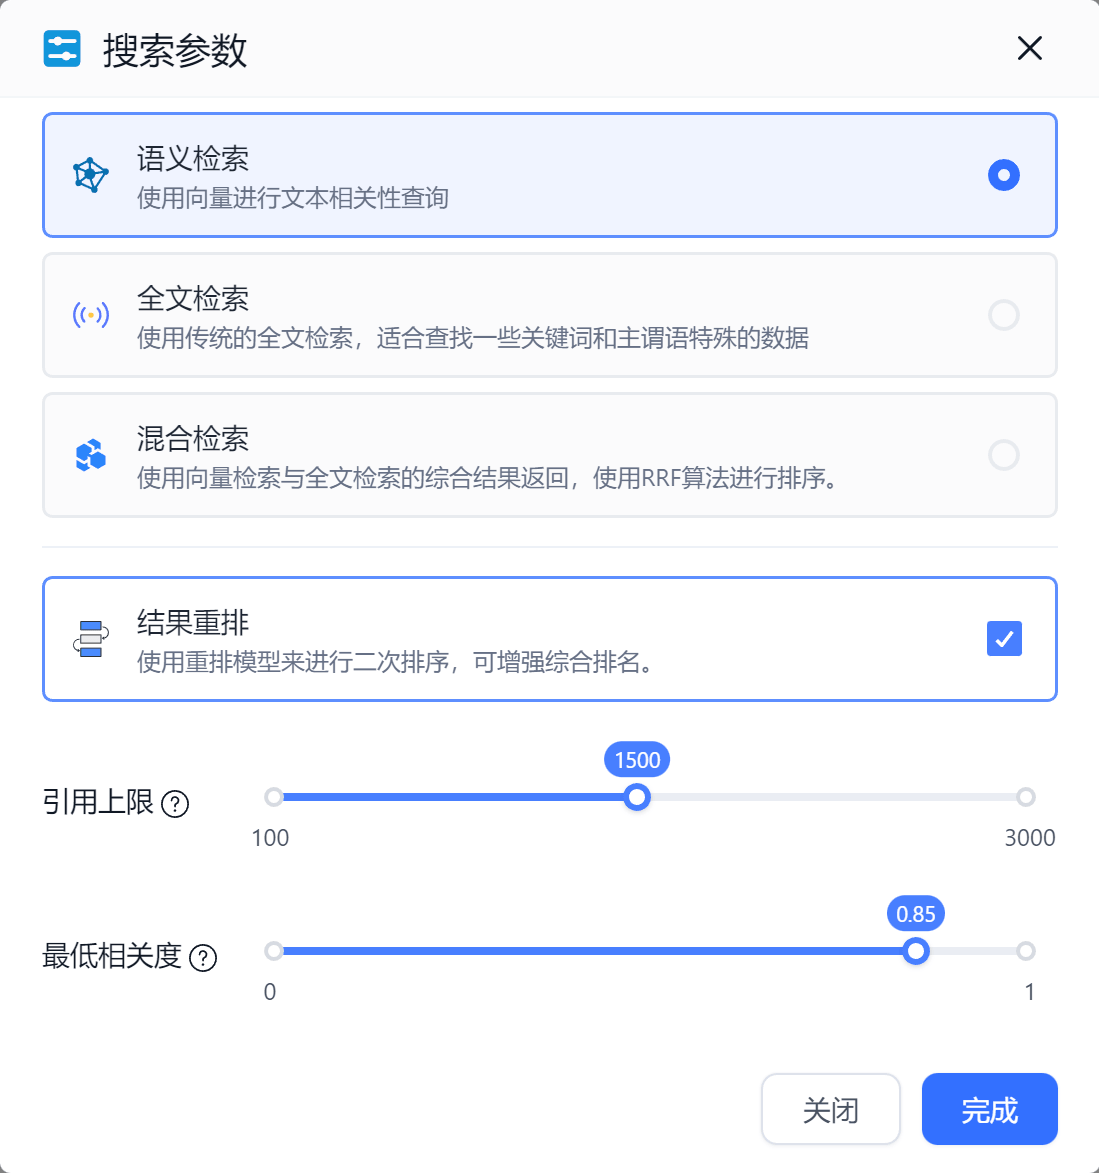
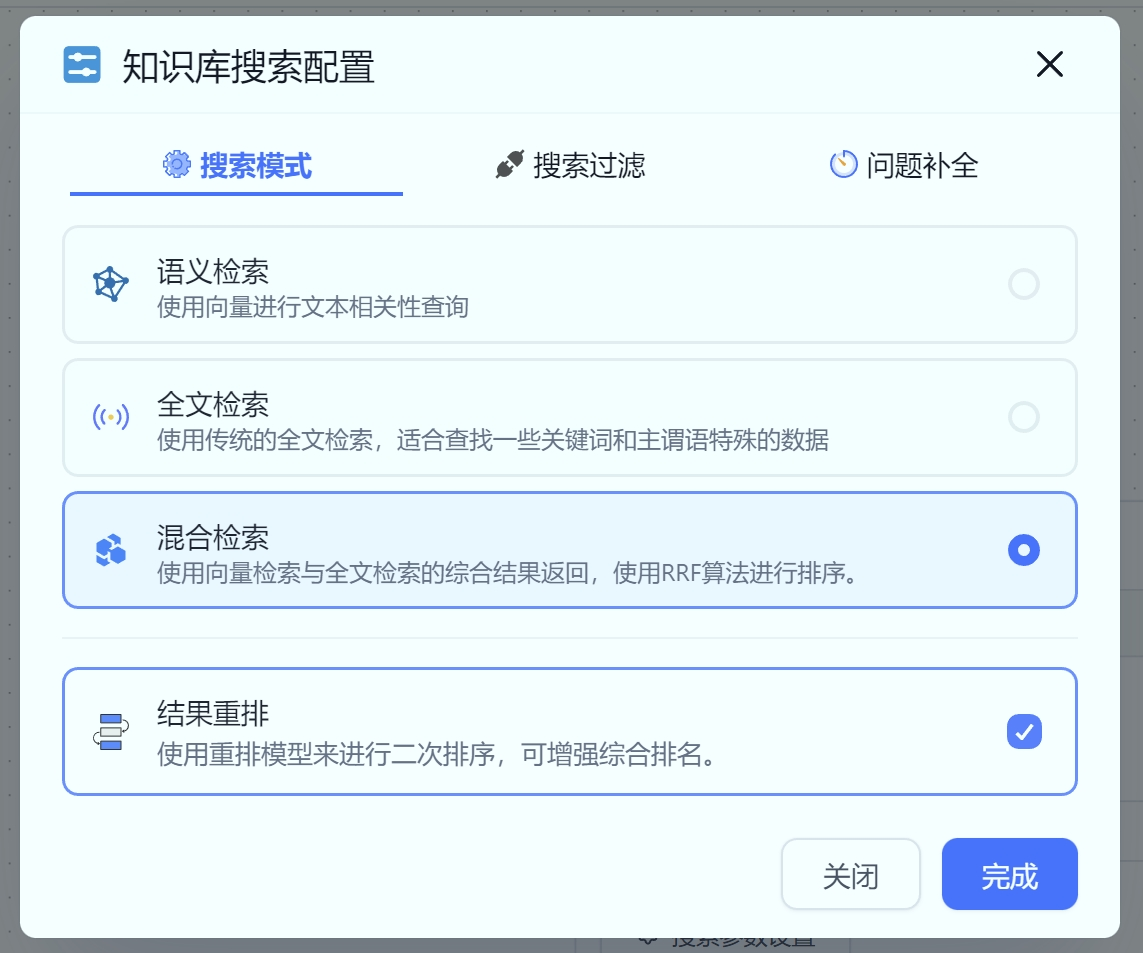
468 doc

Changed region(s): [[0.0, 0.0, 1.0, 1.0], [0.8662, 0.426, 0.8972, 0.4565]]

diff --git a/packages/global/core/module/template/system/coreferenceResolution.ts b/packages/global/core/module/template/system/coreferenceResolution.ts
@@ -19,11 +19,11 @@ import { Output_Template_UserChatInput } from '../output';
 
 export const AiCFR: FlowModuleTemplateType = {
   id: FlowNodeTypeEnum.chatNode,
-  templateType: ModuleTemplateTypeEnum.tools,
+  templateType: ModuleTemplateTypeEnum.other,
   flowType: FlowNodeTypeEnum.cfr,
   avatar: '/imgs/module/cfr.svg',
   name: 'core.module.template.Query extension',
-  intro: 'core.module.template.Query extension intro',
+  intro: '该模块已合并到知识库搜索参数中，无需单独使用。',
   showStatus: true,
   inputs: [
     Input_Template_Switch,

diff --git a/projects/app/src/web/core/modules/template/system.ts b/projects/app/src/web/core/modules/template/system.ts
@@ -29,8 +29,7 @@ export const appSystemModuleTemplates: FlowModuleTemplateType[] = [
   RunAppModule,
   ClassifyQuestionModule,
   ContextExtractModule,
-  HttpModule,
-  AiCFR
+  HttpModule
 ];
 export const pluginSystemModuleTemplates: FlowModuleTemplateType[] = [
   PluginInputModule,
@@ -42,8 +41,7 @@ export const pluginSystemModuleTemplates: FlowModuleTemplateType[] = [
   RunAppModule,
   ClassifyQuestionModule,
   ContextExtractModule,
-  HttpModule,
-  AiCFR
+  HttpModule
 ];
 
 export const moduleTemplatesFlat: FlowModuleTemplateType[] = [

diff --git a/docSite/content/docs/course/data_search.md b/docSite/content/docs/course/data_search.md
@@ -1,19 +1,77 @@
 ---
-title: '知识库搜索参数'
-description: '知识库搜索原理'
+title: '知识库搜索介绍'
+description: '本节会详细介绍 FastGPT 知识库结构设计，理解其 QA 的存储格式和多向量映射，以便更好的构建知识库。同时会介绍每个搜索参数的功能。这篇介绍主要以使用为主，详细原理不多介绍。'
 icon: 'language'
 draft: false
 toc: true
 weight: 106
 ---
 
-在知识库搜索的方式上，FastGPT提供了三种方式，分别为“语义检索”“增强语义检索”“混合检索”。
+## 理解向量
 
-![](/imgs/dataset_search_params1.png)
+FastGPT 采用了 RAG 中的 Embedding 方案构建知识库，要使用好 FastGPT 需要简单的理解`Embedding`向量是如何工作的及其特点。
 
-## 搜索模式
+人类的文字、图片、视频等媒介是无法直接被计算机理解的，要想让计算机理解两段文字是否有相似性、相关性，通常需要将它们转成计算机可以理解的语言，向量是其中的一种方式。
 
-### 语义检索
+向量可以简单理解为一个数字数组，两个向量之间可以通过数学公式得出一个`距离`，距离越小代表两个向量的相似度越大。从而映射到文字、图片、视频等媒介上，可以用来判断两个媒介之间的相似度。向量搜索便是利用了这个原理。
+
+而由于文字是有多种类型，并且拥有成千上万种组合方式，因此在转成向量进行相似度匹配时，很难保障其精确性。在向量方案构建的知识库中，通常使用`topk`召回的方式，也就是查找前`k`个最相似的内容，丢给大模型去做更进一步的`语义判断`、`逻辑推理`和`归纳总结`，从而实现知识库问答。因此，在知识库问答中，向量搜索的环节是最为重要的。
+
+影响向量搜索精度的因素非常多，主要包括：向量模型的质量、数据的质量（长度，完整性，多样性）、检索器的精度（速度与精度之间的取舍）。与数据质量对应的就是检索词的质量。
+
+检索器的精度比较容易解决，向量模型的训练略复杂，因此数据和检索词质量优化成了一个重要的环节。
+
+
+### 提高向量搜索精度的方法
+
+1. 更好分词分段：当一段话的结构和语义是完整的，并且是单一的，精度也会提高。因此，许多系统都会优化分词器，尽可能的保障每组数据的完整性。
+2. 精简`index`的内容，减少向量内容的长度：当`index`的内容更少，更准确时，检索精度自然会提高。但与此同时，会牺牲一定的检索范围，适合答案较为严格的场景。
+3. 丰富`index`的数量，可以为同一个`chunk`内容增加多组`index`。
+4. 优化检索词：在实际使用过程中，用户的问题通常是模糊的或是缺失的，并不一定是完整清晰的问题。因此优化用户的问题（检索词）很大程度上也可以提高精度。
+5. 微调向量模型：由于市面上直接使用的向量模型都是通用型模型，在特定领域的检索精度并不高，因此微调向量模型可以很大程度上提高专业领域的检索效果。
+
+## FastGPT 构建知识库方案
+
+### 数据存储结构
+
+在 FastGPT 中，整个知识库由库、集合和数据 3 部分组成。集合可以简单理解为一个`文件`。一个`库`中可以包含多个`集合`，一个`集合`中可以包含多组`数据`。最小的搜索单位是`库`，也就是说，知识库搜索时，是对整个`库`进行搜索，而集合仅是为了对数据进行分类管理，与搜索效果无关。（起码目前还是）
+
+![](/imgs/dataset_tree.png)
+
+### 向量存储结构
+
+FastGPT 采用了`PostgresSQL`的`PG Vector`插件作为向量检索器，索引为`HNSW`。且`PostgresSQL`仅用于向量检索（该引擎可以替换成其它数据库），`MongoDB`用于其他数据的存取。
+
+在`MongoDB`的`dataset.datas`表中，会存储向量原数据的信息，同时有一个`indexes`字段，会记录其对应的向量ID，这是一个数组，也就是说，一组向量可以对应多组数据。
+
+在`PostgresSQL`的表中，设置一个`vector`字段用于存储向量。在检索时，会先召回向量，再根据向量的ID，去`MongoDB`中寻找原数据内容，如果对应了同一组原数据，则进行合并，向量得分取最高得分。
+
+![](/imgs/datasetSetting1.png)
+
+### 多向量的目的和使用方式
+
+在一组向量中，内容的长度和语义的丰富度通常是矛盾的，无法兼得。因此，FastGPT 采用了多向量映射的方式，将一组数据映射到多组向量中，从而保障数据的完整性和语义的丰富度。
+
+你可以为一组较长的文本，添加多组向量，从而在检索时，只要其中一组向量被检索到，该数据也将被召回。
+
+### 检索方案
+
+1. 通过`问题补全`实现指代消除和问题扩展，从而增加连续对话的检索能力以及语义丰富度。
+2. 通过`Concat query`来增加`Rerank`连续对话的时，排序的准确性。
+3. 通过`RRF`合并方式，综合多个渠道的检索效果。
+4. 通过`Rerank`来二次排序，提高精度。
+
+![](/imgs/dataset_search_process.png)
+
+
+## 搜索参数
+| | | |
+| --- |---| --- |
+|![](/imgs/dataset_search_params1.png)| ![](/imgs/dataset_search_params2.png) | ![](/imgs/dataset_search_params3.png) |
+
+### 搜索模式
+
+#### 语义检索
 
 语义检索是通过向量距离，计算用户问题与知识库内容的距离，从而得出“相似度”，当然这并不是语文上的相似度，而是数学上的。
 
@@ -27,32 +85,49 @@ weight: 106
 - 精度不稳定
 - 受关键词和句子完整度影响
 
-### 全文检索
+#### 全文检索
 
 采用传统的全文检索方式。适合查找关键的主谓语等。
 
-### 混合检索
+#### 混合检索
 
 同时使用向量检索和全文检索，并通过 RRF 公式进行两个搜索结果合并，一般情况下搜索结果会更加丰富准确。
 
 由于混合检索后的查找范围很大，并且无法直接进行相似度过滤，通常需要进行利用重排模型进行一次结果重新排序，并利用重排的得分进行过滤。
 
-
-
-## 结果重排
+#### 结果重排
 
 利用`ReRank`模型对搜索结果进行重排，绝大多数情况下，可以有效提高搜索结果的准确率。不过，重排模型与问题的完整度（主谓语齐全）有一些关系，通常会先走问题补全后再进行搜索-重排。重排后可以得到一个`0-1`的得分，代表着搜索内容与问题的相关度，该分数通常比向量的得分更加精确，可以根据得分进行过滤。
 
 FastGPT 会使用 `RRF` 对重排结果、向量搜索结果、全文检索结果进行合并，得到最终的搜索结果。
 
-## 引用上限
+### 搜索过滤
+#### 引用上限
 
 每次搜索最多引用`n`个`tokens`的内容。
 
 之所以不采用`top k`，是发现在混合知识库（问答库、文档库）时，不同`chunk`的长度差距很大，会导致`top k`的结果不稳定，因此采用了`tokens`的方式进行引用上限的控制。
 
-## 最低相关度
+#### 最低相关度
 
 一个`0-1`的数值，会过滤掉一些低相关度的搜索结果。
 
 该值仅在`语义检索`或使用`结果重排`时生效。
+
+### 问题补全
+
+#### 背景
+
+在 RAG 中，我们需要根据输入的问题去数据库里执行 embedding 搜索，查找相关的内容，从而查找到相似的内容（简称知识库搜索）。
+
+在搜索的过程中，尤其是连续对话的搜索，我们通常会发现后续的问题难以搜索到合适的内容，其中一个原因是知识库搜索只会使用“当前”的问题去执行。看下面的例子：
+
+![](/imgs/coreferenceResolution2.jpg)
+
+用户在提问“第二点是什么”的时候，只会去知识库里查找“第二点是什么”，压根查不到内容。实际上需要查询的是“QA结构是什么”。因此我们需要引入一个【问题补全】模块，来对用户当前的问题进行补全，从而使得知识库搜索能够搜索到合适的内容。使用补全后效果如下：
+
+![](/imgs/coreferenceResolution3.jpg)
+
+#### 实现方式
+
+在进行`数据检索`前，会先让模型进行`指代消除`与`问题扩展`，一方面可以可以解决指代对象不明确问题，同时可以扩展问题的语义丰富度。

diff --git a/docSite/content/docs/development/upgrading/468.md b/docSite/content/docs/development/upgrading/468.md
@@ -1,6 +1,6 @@
 ---
-title: 'V4.6.8（进行中）'
-description: 'FastGPT V4.6.7'
+title: 'V4.6.8'
+description: 'FastGPT V4.6.8更新说明'
 icon: 'upgrade'
 draft: false
 toc: true
@@ -9,7 +9,54 @@ weight: 828
 
 ## docker 部署 - 更新 Mongo
 
-开启 Mongo 副本集模式。需要进入 mongo 执行一次 init，参考[初始化Mongo副本集](/docs/development/docker/#四初始化-mongo-副本集)，这个比较麻烦，初始化后可以用 mongoshell 之类的连接试试，看能不能连接上。
+1. 修改 docker-compose.yml 的mongo部分，补上`command`和`mongodb.key`
+
+```yml
+mongo:
+    image: mongo:5.0.18
+    # image: registry.cn-hangzhou.aliyuncs.com/fastgpt/mongo:5.0.18 # 阿里云
+    container_name: mongo
+    ports:
+      - 27017:27017
+    networks:
+      - fastgpt
+    command: mongod --keyFile /data/mongodb.key --replSet rs0
+    environment:
+      # 这里密码不用变。
+      - MONGO_INITDB_ROOT_USERNAME=myname
+      - MONGO_INITDB_ROOT_PASSWORD=mypassword
+    volumes:
+      - ./mongo/data:/data/db
+      - ./mongodb.key:/data/mongodb.key
+```
+
+2. 创建 mongo 密钥
+   
+```bash
+cd 项目目录
+# 创建 mongo 密钥
+openssl rand -base64 756 > ./mongodb.key
+chmod 600 ./mongodb.key
+# 重启 Mongo
+docker-compose down
+docker-compose up -d
+```
+
+3. 进入容器初始化部分集合
+
+```bash
+docker exec -it mongo bash
+mongo -u myname -p mypassword --authenticationDatabase admin
+# 初始化副本集。如果需要外网访问，mongo:27017 可以改成 ip:27017。但是需要同时修改 FastGPT 连接的参数（MONGODB_URI=mongodb://myname:mypassword@mongo:27017/fastgpt?authSource=admin => MONGODB_URI=mongodb://myname:mypassword@ip:27017/fastgpt?authSource=admin）
+rs.initiate({
+  _id: "rs0",
+  members: [
+    { _id: 0, host: "mongo:27017" }
+  ]
+})
+# 检查状态。如果提示 rs0 状态，则代表运行成功
+rs.status()
+```
 
 ## Sealos 部署 - 无需更新 Mongo
 
@@ -20,8 +67,9 @@ weight: 828
 ## V4.6.8 更新说明
 
 1. 新增 - 知识库搜索合并模块。
-1. 优化 - LLM 模型配置，不再区分对话、分类、提取模型。同时支持模型的默认参数，避免不同模型参数冲突，可通过`defaultConfig`传入默认的配置。
-2. 优化 - HTTP 模块，支持输出字符串自动序列化（JSON可自动转成字符串）
-3. 优化 - 流响应，参考了`ChatNextWeb`的流，更加丝滑。此外，之前提到的乱码、中断，刷新后又正常了，可能会修复）
-4. 修复 - 语音输入文件无法上传。
-5. 修复 - 对话框重新生成无法使用。
+2. 优化 - 内容补全。将内容补全内置到【知识库搜索】中，并实现了一次内容补全，即可完成“指代消除”和“问题扩展”。
+3. 优化 - LLM 模型配置，不再区分对话、分类、提取模型。同时支持模型的默认参数，避免不同模型参数冲突，可通过`defaultConfig`传入默认的配置。
+4. 优化 - HTTP 模块，支持输出字符串自动序列化（JSON可自动转成字符串）
+5. 优化 - 流响应，参考了`ChatNextWeb`的流，更加丝滑。此外，之前提到的乱码、中断，刷新后又正常了，可能会修复）
+6. 修复 - 语音输入文件无法上传。
+7. 修复 - 对话框重新生成无法使用。

diff --git a/docSite/content/docs/development/docker.md b/docSite/content/docs/development/docker.md
@@ -103,13 +103,21 @@ curl -O https://raw.githubusercontent.com/labring/FastGPT/main/projects/app/data
 
 ## 四、启动容器
 
+在 docker-compose.yml 同级目录下执行
+
 ```bash
-# 在 docker-compose.yml 同级目录下执行
+# 进入项目目录
+cd 项目目录
+# 创建 mongo 密钥
+openssl rand -base64 756 > ./mongodb.key
+chmod 600 ./mongodb.key
+
+# 启动容器
 docker-compose pull
 docker-compose up -d
 ```
 
-## 四、初始化 Mongo 副本集(4.6.8以前可忽略)
+## 五、初始化 Mongo 副本集(4.6.8以前可忽略)
 
 FastGPT 4.6.8 后使用了 MongoDB 的事务，需要运行在副本集上。副本集没法自动化初始化，需手动操作。
 
@@ -120,9 +128,9 @@ docker ps
 docker exec -it mongo bash
 
 # 连接数据库
-mongo
+mongo -u myname -p mypassword --authenticationDatabase admin
 
-# 初始化副本集。
+# 初始化副本集。如果需要外网访问，mongo:27017 可以改成 ip:27017。但是需要同时修改 FastGPT 连接的参数（MONGODB_URI=mongodb://myname:mypassword@mongo:27017/fastgpt?authSource=admin => MONGODB_URI=mongodb://myname:mypassword@ip:27017/fastgpt?authSource=admin）
 rs.initiate({
   _id: "rs0",
   members: [
@@ -131,14 +139,6 @@ rs.initiate({
 })
 # 检查状态。如果提示 rs0 状态，则代表运行成功
 rs.status()
-
-# 初始化用户
-use admin
-db.createUser({
-  user: "admin",
-  pwd: "password",
-  roles: [{ role: "root", db: "admin" }]
-});
 ```
 
 ## 五、访问 FastGPT

diff --git a/docSite/content/docs/workflow/modules/dataset_search.md b/docSite/content/docs/workflow/modules/dataset_search.md
@@ -7,6 +7,8 @@ toc: true
 weight: 357
 ---
 
+知识库搜索具体参数说明，以及内部逻辑请移步：[FastGPT知识库搜索方案](/docs/course/data_search/)
+
 ## 特点
 
 - 可重复添加（复杂编排时防止线太乱，可以更美观）
